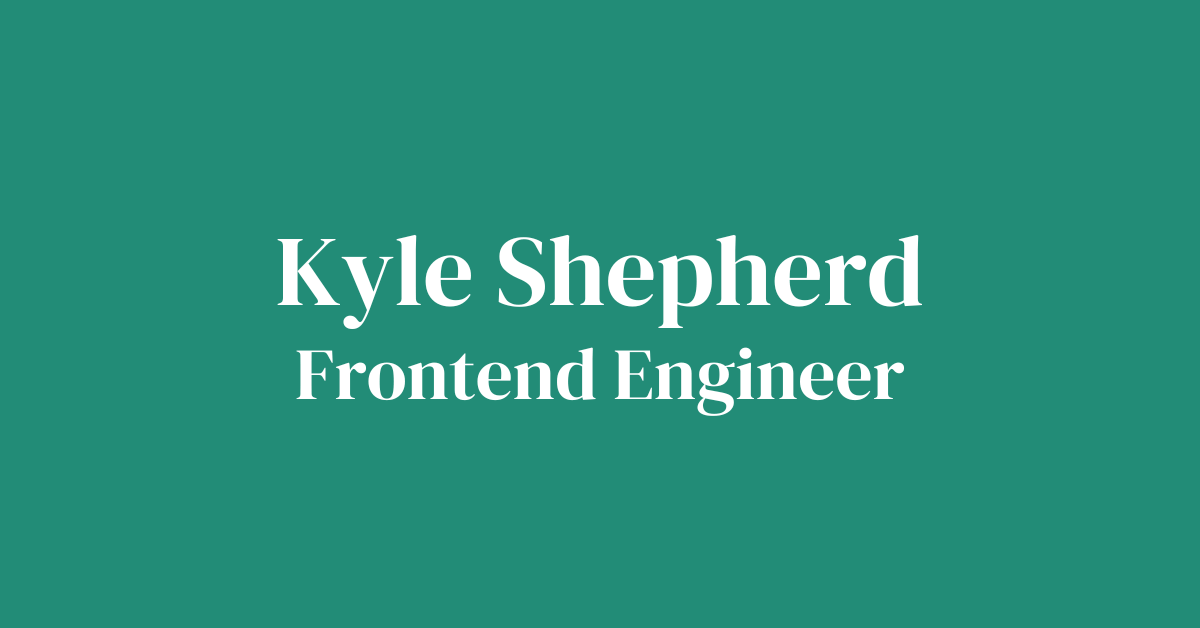
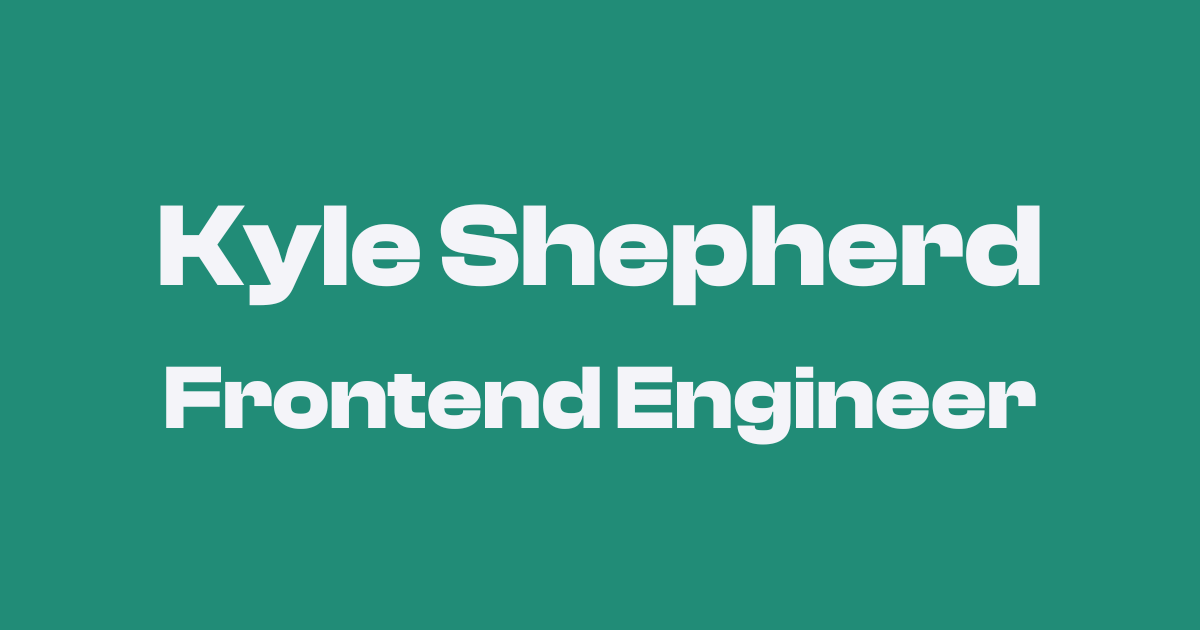
feat(Imgs): Update meta and about pic

Changed region(s): [[0.1233, 0.3025, 0.8942, 0.5446], [0.1233, 0.5446, 0.8633, 0.7261]]

diff --git a/src/routes/about/+page.svelte b/src/routes/about/+page.svelte
@@ -17,7 +17,7 @@
     </div>
     <div class="basis-full sm:basis-1/2">
       <img
-        class="mx-auto w-full max-w-lg rounded-full"
+        class="mx-auto w-full max-w-lg rounded-full drop-shadow-lg"
         src="/imgs/Kyle.jpg"
         alt="Lil piccy of me innit"
       />
